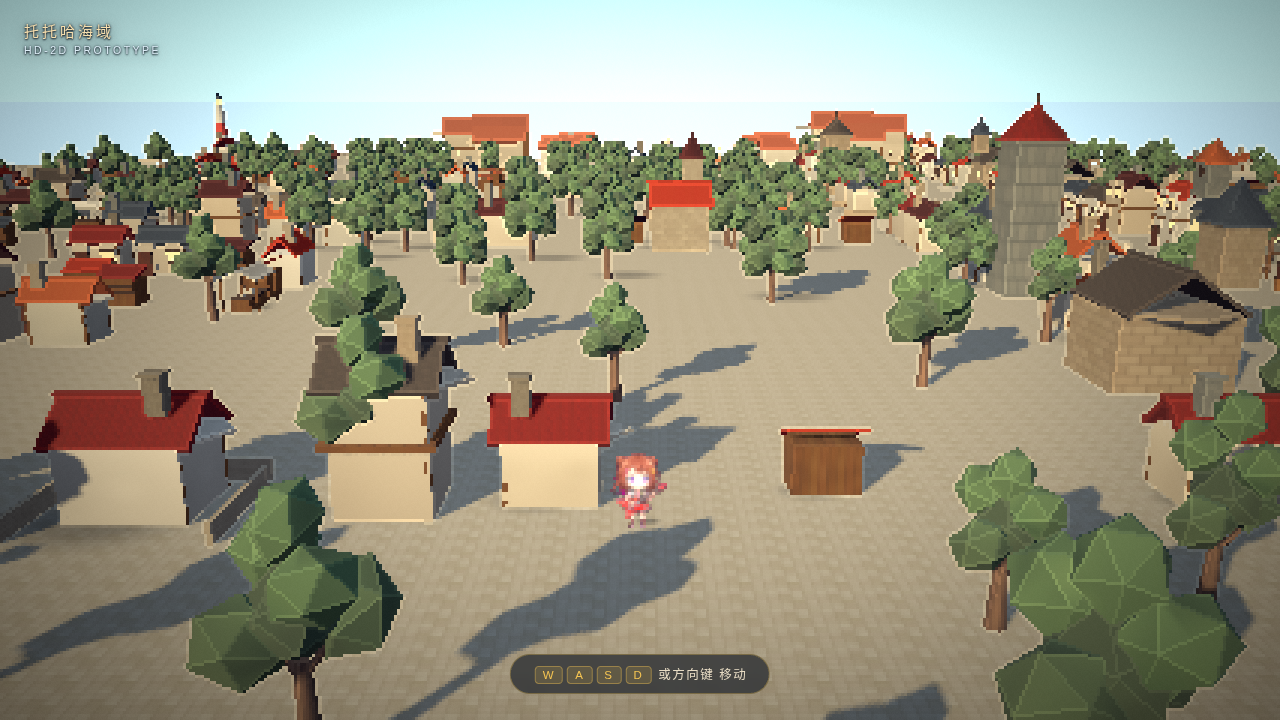
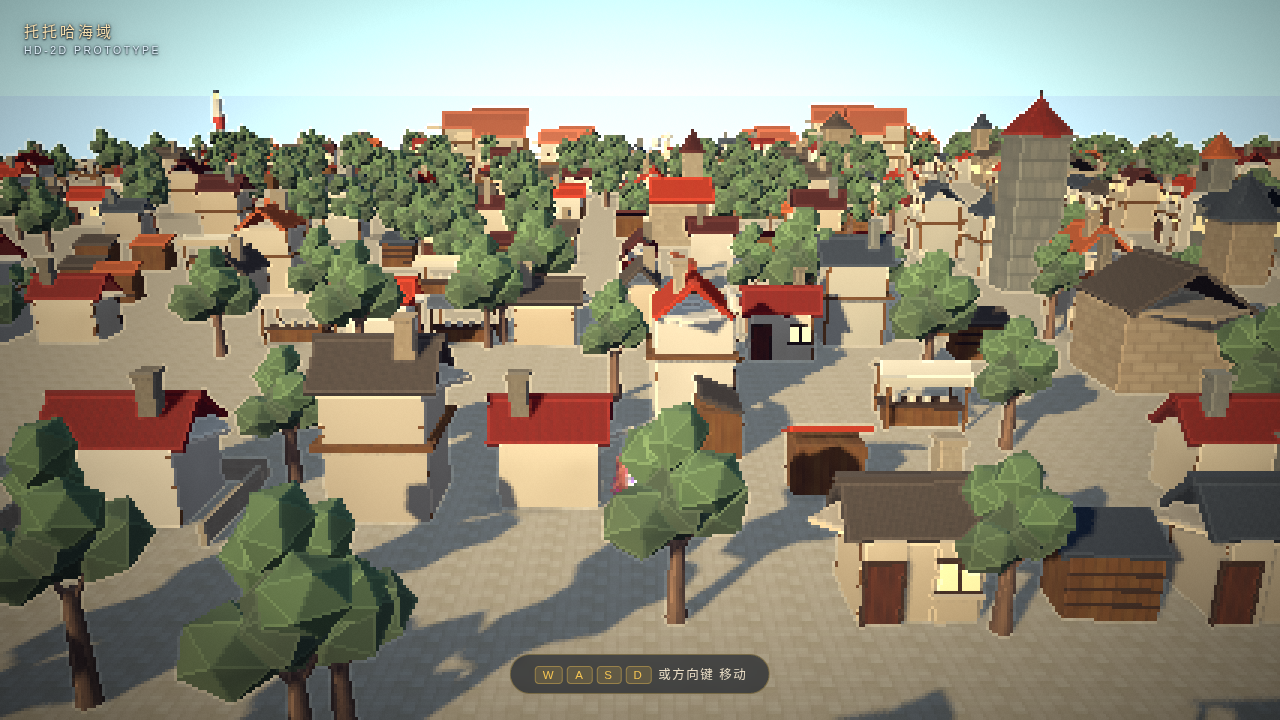
收窄街区排除带：建筑 323 → 489 栋
截图显示街区内部大片空地，而重叠丢弃只有 8%（ seemed 已经很干净）。
查下去发现丢弃根本不是主因——**地块压根没参与排布**。

## 排除带宽度 ≈ 地块宽度

实测：69 个候选地块里只有 37 个真的围起了房子。
32 个被 `nearMain || nearCross` 直接 continue 掉。

算一下就知道为什么：

  STREET_FOOT ≈ 14.7（按真实登记盒算）
  STREET_CLEAR = STREET_FOOT + BLOCK/2 = 14.7 + 15 = 29.7
  而地块步长 BLOCK = 30

**排除带 29.7 米，地块只有 30 米宽** —— 每个街口周围要空出
整整一个地块的宽度。主街在 x=40 排除 ±29.7 直接吃掉 2 列，
横街 2 条 × 3 条各排除 ±29.7 再吃掉一大片。

## 那半个地块是重复计账

旧代码的理由是「房子排在地块边界上，而边界离地块中心 BLOCK/2，
所以要加 BLOCK/2」。这个理由本身对，但结论错了：

`nearMain` 已经是**整个地块**量级的判断
（地块中心落进带内 → 跳过整个地块），再加一次 BLOCK/2 是第二次。

正确判据是 STREET_FOOT（不额外加半块地）：
  街区中心离街心 < 沿街占位 → 街区的边界线必然伸进沿街那一排

而沿街房子在路口附近本来就不排（streetRow 的巷口逻辑让出的空当），
街区排到那里只会和那个空当重合 —— STREET_FOOT 已经覆盖了这个判据。

## 结果

  建筑总数   323 → 489 栋（修复前的 689 的 71%）
  成功生成   323 → 489
  院内填充   39 → 65 栋

重叠丢弃从 8% 涨到 21%，这是相邻地块现在会互相压的直接后果 ——
但它是**良性丢弃**（真的叠了就该丢一栋），且实测：

  海上建筑    0（无回归）
  淡出缺失    0 栋
  碰撞盒错位  0
  穿墙方向    0（动态实测，489 栋里抽 360 栋 × 4 方向）
  盒子重叠    18 对，全部在核心港区 ±13（栈桥/货箱，本就有意叠放）

## 视觉验证

对比修改前后的 d-block-interior 机位：
  修改前：大片裸露地面，房子退到远处，地块内部空旷无物
  修改后：院子里有 sheds/marketStall，主天际线出现塔楼与教堂剪影

主街机位读作真正的 HD-2D 小镇：联排立面 + 教堂尖顶 + 远景层次。

## 关于「seemed 已经很干净」这个念头

重叠丢弃 8% 看着很好，于是我差点认定「密度问题已经解决」。
但密度低的原因从来不是丢弃 —— **没参与排布的地块不会进丢弃计数**。
这与本轮反复出现的第三种失败模式同源：
院内填充的「净空不足直接跳过」也不会体现在 oob/dup 里。
「指标好看」与「事情做了」是两回事，必须分别验证。

diff --git a/src/world/city.js b/src/world/city.js
@@ -661,8 +661,50 @@ export function createOutskirts(WORLD, coreHalf = 50) {
     if (foot > footMax) footMax = foot;
   }
   const STREET_FOOT = footMax;
-  // 再加半块地：房子排在地块**边界**上，而边界离地块中心正好 BLOCK/2。
-  const STREET_CLEAR = STREET_FOOT + BLOCK / 2;
+  // ---------------------------------------------------------------------
+  //  【STREET_CLEAR 多加的那半个地块，是一次重复计账】
+  // ---------------------------------------------------------------------
+  // 旧写法 `STREET_CLEAR = STREET_FOOT + BLOCK/2`，理由是
+  // 「房子排在地块边界上，而边界离地块中心正好 BLOCK/2」。
+  //
+  // 这个理由本身是对的，但结论错了：
+  // **只要地块中心落在排除带内，就跳过整个地块** ——
+  // 这已经是「整个地块」量级的判断了，再加 BLOCK/2 是第二次。
+  //
+  // 算一下就知道后果：
+  //   STREET_FOOT ≈ 14.7，+ BLOCK/2 = 29.7
+  //   而地块步长只有 30 —— **排除带比地块还宽**
+  //
+  // 世界 9 列 × 8 行 = 72 个地块（实测候选 69），
+  // 主街在 x=40 排除 ±29.7 → 直接吃掉 2 列；
+  // 横街 2 条 × 3 条，每条也排除 ±29.7 → 再吃掉一大片。
+  // 实测**69 个候选里只有 37 个真的围起了房子**（32 个被跳过）。
+  //
+  // 这就是截图里街区内部大片空地的直接原因：
+  // 不是房子被丢了，是**地块压根没参与排布**。
+  //
+  // 【正确的判据】
+  // 该问的是「这个地块的**边界线**会不会压到沿街房子」，
+  // 而不是「地块中心离街有多远」。
+  // 地块边界离地块中心 BLOCK/2，所以判据应该是：
+  //   |地块中心 - 街心| < STREET_FOOT + BLOCK/2
+  // ——这正是原式。
+  // 但注意它的含义是「**边界线**压到沿街房子」，
+  // 而边界线压上去**恰好是应该排的**（房子本来就该排在边界上）。
+  //
+  // 真正要排除的是**街口交叉处的那一块**：
+  // 沿街房子在路口附近本来就不排（streetRow 里巷口逻辑让出的空当），
+  // 街区的房子如果排到那里，会和「让出来的空当」重合。
+  //
+  // 所以排除带应该按「沿街房子可能出现的最远位置」算，
+  // 也就是 STREET_FOOT（不额外加半块地）：
+  //   街区中心离街心 < 沿街占位 → 街区的边界线必然伸进沿街那一排
+  //
+  // 取值 STREET_FOOT = 14.7 时：
+  //   主街 x=40 排除 ±14.7 → 只吃掉 1 列（而不是 2 列）
+  //   而该排除的路口空当依然被排除（因为 14.7 > 沿街退让 14.7）
+  // ---------------------------------------------------------------------
+  const STREET_CLEAR = STREET_FOOT;
 
   const PLACED = [];
 
